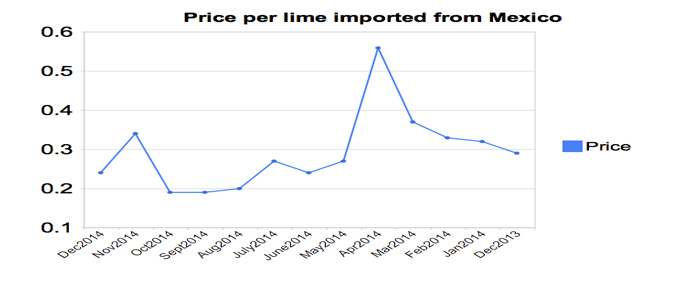
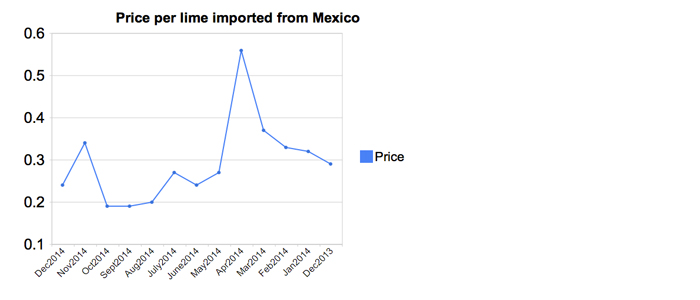
more work on chart for J220

diff --git a/index.html b/index.html
@@ -39,7 +39,7 @@
                     <span class="icon-bar"></span>
                     <span class="icon-bar"></span>
                 </button>
-                <a class="navbar-brand" href="#">Greta Mart Journalism Portfolio</a>
+                <a class="navbar-brand" href="#">Greta Mart</a>
             </div>
             <!-- Collect the nav links, forms, and other content for toggling -->
             <div class="collapse navbar-collapse" id="bs-example-navbar-collapse-1">
@@ -71,7 +71,7 @@
         <div class="row">
             <div class="col-lg-12">
                 <h1 class="page-header">Work Samples
-                    <small>selected class projects</small>
+                    <small>J220 class projects</small>
                 </h1>
             </div>
         </div>
@@ -85,9 +85,9 @@
                 </a>
             </div>
             <div class="col-md-5">
-                <h3>Bar Chart</h3>
-                <h4>hello world</h4>
-                <p>I really wish I knew what I was doing. Wouldn't that be nice? I dont' think I'll ever get it.</p>
+                <h3>Line Graph</h3>
+                <h4>Lime Prices</h4>
+                <p>Price per lime from December, 2013 to December, 2014 according to the USDA Agricultural Marketing Service's Weekly Advertised Fruit and Vegetable Retail Prices Index.  </p>
                 <a class="btn btn-primary" href="#">View Project <span class="glyphicon glyphicon-chevron-right"></span></a>
             </div>
         </div>
@@ -99,13 +99,13 @@
         <div class="row">
             <div class="col-md-7">
                 <a href="#">
-                    <img class="img-responsive" src="http://placehold.it/700x300" alt="">
+                    <img class="img-responsive" src="images/sodaconsumption.jpg" alt="">
                 </a>
             </div>
             <div class="col-md-5">
-                <h3>Project Two</h3>
-                <h4>Subheading</h4>
-                <p>Lorem ipsum dolor sit amet, consectetur adipisicing elit. Ut, odit velit cumque vero doloremque repellendus distinctio maiores rem expedita a nam vitae modi quidem similique ducimus! Velit, esse totam tempore.</p>
+                <h3>Bar Graph</h3>
+                <h4>Soda Consumption</h4>
+                <p>Percentage of adolescents (ages 12-17) drinking one or more sodas or sugar-sweetened beverages per day in selected California counties, 2011-2012. Data from the UCLA Center for Health Policy Research.</p>
                 <a class="btn btn-primary" href="#">View Project <span class="glyphicon glyphicon-chevron-right"></span></a>
             </div>
         </div>
@@ -117,94 +117,23 @@
         <div class="row">
             <div class="col-md-7">
                 <a href="#">
-                    <img class="img-responsive" src="http://placehold.it/700x300" alt="">
+                    <img class="img-responsive" src="images/CAlanduse.jpg" alt="">
                 </a>
             </div>
             <div class="col-md-5">
-                <h3>Project Three</h3>
-                <h4>Subheading</h4>
-                <p>Lorem ipsum dolor sit amet, consectetur adipisicing elit. Omnis, temporibus, dolores, at, praesentium ut unde repudiandae voluptatum sit ab debitis suscipit fugiat natus velit excepturi amet commodi deleniti alias possimus!</p>
+                <h3>Pie Chart</h3>
+                <h4>Types of Land Use in California</h4>
+                <p>Land use in California according to the 2010 National Resources Inventory, US Dept. of Agriculture.</p>
                 <a class="btn btn-primary" href="#">View Project <span class="glyphicon glyphicon-chevron-right"></span></a>
             </div>
         </div>
         <!-- /.row -->
-
-        <hr>
-
-        <!-- Project Four -->
-        <div class="row">
-
-            <div class="col-md-7">
-                <a href="#">
-                    <img class="img-responsive" src="http://placehold.it/700x300" alt="">
-                </a>
-            </div>
-            <div class="col-md-5">
-                <h3>Project Four</h3>
-                <h4>Subheading</h4>
-                <p>Lorem ipsum dolor sit amet, consectetur adipisicing elit. Explicabo, quidem, consectetur, officia rem officiis illum aliquam perspiciatis aspernatur quod modi hic nemo qui soluta aut eius fugit quam in suscipit?</p>
-                <a class="btn btn-primary" href="#">View Project <span class="glyphicon glyphicon-chevron-right"></span></a>
-            </div>
-        </div>
-        <!-- /.row -->
-
-        <hr>
-
-        <!-- Project Five -->
-        <div class="row">
-            <div class="col-md-7">
-                <a href="#">
-                    <img class="img-responsive" src="http://placehold.it/700x300" alt="">
-                </a>
-            </div>
-            <div class="col-md-5">
-                <h3>Project Five</h3>
-                <h4>Subheading</h4>
-                <p>Lorem ipsum dolor sit amet, consectetur adipisicing elit. Aliquid, quo, minima, inventore voluptatum saepe quos nostrum provident ex quisquam hic odio repellendus atque porro distinctio quae id laboriosam facilis dolorum.</p>
-                <a class="btn btn-primary" href="#">View Project <span class="glyphicon glyphicon-chevron-right"></span></a>
-            </div>
-        </div>
-        <!-- /.row -->
-
-        <hr>
-
-        <!-- Pagination -->
-        <div class="row text-center">
-            <div class="col-lg-12">
-                <ul class="pagination">
-                    <li>
-                        <a href="#">&laquo;</a>
-                    </li>
-                    <li class="active">
-                        <a href="#">1</a>
-                    </li>
-                    <li>
-                        <a href="#">2</a>
-                    </li>
-                    <li>
-                        <a href="#">3</a>
-                    </li>
-                    <li>
-                        <a href="#">4</a>
-                    </li>
-                    <li>
-                        <a href="#">5</a>
-                    </li>
-                    <li>
-                        <a href="#">&raquo;</a>
-                    </li>
-                </ul>
-            </div>
-        </div>
-        <!-- /.row -->
-
-        <hr>
 
         <!-- Footer -->
         <footer>
             <div class="row">
                 <div class="col-lg-12">
-                    <p>Copyright &copy; Your Website 2014</p>
+                    <p>Copyright &copy; Greta Mart 2014</p>
                 </div>
             </div>
             <!-- /.row -->

diff --git a/charts/sodaconsumption.html b/charts/sodaconsumption.html
@@ -1,0 +1,95 @@
+<html>
+<head>
+    <meta charset="utf-8">
+    <title>Soda consumption</title>
+    <style>
+        .axis text{
+          font-family: Impact, Arial, sans-serif;
+          font-size: 11px;
+          text-anchor: end;
+        }
+        .axis path{
+          fill:none;
+          stroke:black;
+          stroke-width: 1.5px;
+        }
+        .bar{
+            stroke: none;
+            fill: green;
+        }
+    </style>
+    <script src="http://d3js.org/d3.v3.min.js" charset="utf-8"></script>
+</head>
+<body>
+
+<script>
+
+    var margin = {top:30, right:0, bottom:70, left:30},
+        width  = 600 - margin.left - margin.right,
+        height = 400 - margin.top  - margin.bottom;
+
+    var svg = d3.select("body")
+        .append("svg")
+        .attr("width", width + margin.left + margin.right)
+        .attr("height", height + margin.top + margin.bottom);
+
+    var chart = svg.append("g")
+        .attr("transform", "translate(" + margin.left + ", " + margin.top + ")");
+
+    var x = d3.scale.ordinal()
+        .rangeRoundBands([0, width], .1);//leave off domain
+
+    var y = d3.scale.linear()
+        .range([height, 0]);//leave off domain
+
+    var xAxis = d3.svg.axis()
+        .scale(x)
+        .orient("bottom");
+
+    var yAxis = d3.svg.axis()
+        .scale(y)
+        .orient("left");
+
+    d3.csv("sodaconsumption.csv", convertToNumber, function(error, data){
+
+        //optionally sort data
+        data.sort(function(a,b){ return b.percentage - a.percentage; });
+
+        //set the domains for x and y functions here
+        x.domain(data.map(function(d){ return d.county; }));
+        y.domain([0, d3.max( data.map(function(d){ return d.percentage; }) )]);
+
+        chart.selectAll(".bar")
+            .data(data)
+            .enter()
+            .append("rect")
+            .attr("x", function(d){ return x(d.county); })
+            .attr("y", function(d){ return y(d.percentage); })
+            .attr("width", function(d){ return x.rangeBand(); })
+            .attr("height", function(d){ return height - y(d.percentage); })
+            .attr("class", "bar");
+
+        //setting the axes
+        svg.append("g")
+            .attr("class", "y axis")
+            .attr("transform", "translate(" + margin.left + "," + margin.top + ")")
+            .call(yAxis);
+
+        svg.append("g")
+            .attr("class", "x axis")
+            .attr("transform", "translate(" + margin.left + "," + (height + margin.top) + ")")
+            .call(xAxis)
+            .selectAll("text")
+            .attr("transform", "translate(-10,0)rotate(-65)")
+            .style("text-anchor", "end");
+
+    });
+
+    function convertToNumber(d){
+        d.percentage = +d.percentage; 
+        return d;
+    }
+
+</script>
+</body>
+</html>

diff --git a/charts/limeprices.html b/charts/limeprices.html
@@ -1,0 +1,55 @@
+<!DOCTYPE html>
+<html>
+  <head>
+    <!--Load the AJAX API-->
+    <script type="text/javascript" src="https://www.google.com/jsapi"></script>
+    <script type="text/javascript">
+
+      // Load the Visualization API and the piechart package.
+      google.load('visualization', '1.0', {'packages':['LineChart']});
+
+      // Set a callback to run when the Google Visualization API is loaded.
+      google.setOnLoadCallback(drawChart);
+
+      // Callback that creates and populates a data table,
+      // instantiates the pie chart, passes in the data and
+      // draws it.
+      function drawChart() {
+
+        // Create the data table.
+        var data = new google.visualization.DataTable();
+        data.addColumn('string', 'Date');
+        data.addColumn('number', 'Price');
+        data.addRows([
+          ['Dec2014', .24],
+          ['Nov2014', .34],
+          ['Oct2014', .19],
+          ['Sept2014', .19],
+          ['Aug2014', .20],
+          ['July2014', .27], 
+          ['June2014', .24],
+          ['May2014', .27],
+          ['Apr2014', .56],
+          ['Mar2014', .37],          
+          ['Feb2014', .33],          
+          ['Jan2014', .32],
+          ['Dec2013', .29]
+        ]);
+
+        // Set chart options
+        var options = {'title':'Price per lime imported from Mexico',
+                       'width':800,
+                       'height':500};
+
+        // Instantiate and draw our chart, passing in some options.
+        var chart = new google.visualization.LineChart (document.getElementById('chart_div'));
+        chart.draw(data, options);
+      }
+    </script>
+  </head>
+
+  <body>
+    <!--Div that will hold the pie chart-->
+    <div id="chart_div"></div>
+  </body>
+</html>

diff --git a/charts/CAlanduse.html b/charts/CAlanduse.html
@@ -1,0 +1,64 @@
+<!DOCTYPE html>
+<meta charset="utf-8">
+<style>
+
+body {
+  font: 9px sans-serif;
+}
+
+.arc path {
+  stroke: #fff;
+}
+
+</style>
+<body>
+<script src="http://d3js.org/d3.v3.min.js"></script>
+<script>
+
+var width = 960,
+    height = 500,
+    radius = Math.min(width, height) / 2;
+
+var color = d3.scale.ordinal()
+    .range(["#98abc5", "#8a89a6", "#7b6888", "#6b486b", "#a05d56", "#d0743c", "#ff8c00"]);
+
+var arc = d3.svg.arc()
+    .outerRadius(radius - 10)
+    .innerRadius(0);
+
+var pie = d3.layout.pie()
+    .sort(null)
+    .value(function(d) { return d.percentage; });
+
+var svg = d3.select("body").append("svg")
+    .attr("width", width)
+    .attr("height", height)
+  .append("g")
+    .attr("transform", "translate(" + width / 2 + "," + height / 2 + ")");
+
+d3.csv("CAlanduse.csv", function(error, data) {
+
+  data.forEach(function(d) {
+    d.percentage = +d.percentage;
+  });
+
+  var g = svg.selectAll(".arc")
+      .data(pie(data))
+    .enter().append("g")
+      .attr("class", "arc");
+
+  g.append("path")
+      .attr("d", arc)
+      .style("fill", function(d) { return color(d.data.type); });
+
+  g.append("text")
+      .attr("transform", function(d) { return "translate(" + arc.centroid(d) + ")"; })
+      .attr("dy", ".35em")
+      .style("text-anchor", "middle")
+      .text(function(d) { return d.data.type; });
+
+});
+
+</script>
+</body>
+</html>
